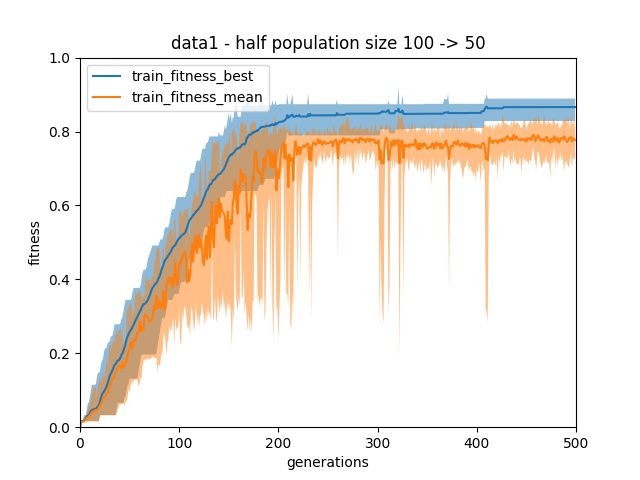
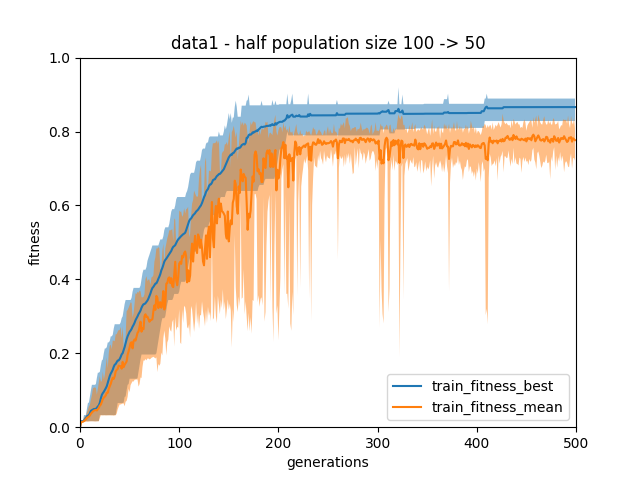
Shift graph legend to lower right

Changed region(s): [[0.125, 0.125, 0.4375, 0.25], [0.5938, 0.7812, 0.875, 0.875]]

diff --git a/biocomp/grapher.py b/biocomp/grapher.py
@@ -100,7 +100,7 @@ def plot_logfile(logs, keys):
         plot_fitness_area(generation_count, logs, key)
     plt.xlabel("generations")
     plt.ylabel("fitness")
-    plt.legend(loc="upper left")
+    plt.legend(loc="lower right")
 
 
 def main():
@@ -127,16 +127,16 @@ def main():
             "c/logs/data1/2019-11-22.05:38:35.log",
             "c/logs/data1/2019-11-22.05:39:12.log",
 
-            "c/logs/data1/2019-11-22.06:49:03.log",
-            "c/logs/data1/2019-11-22.06:49:13.log",
-            "c/logs/data1/2019-11-22.06:49:25.log",
-            "c/logs/data1/2019-11-22.06:49:36.log",
-            "c/logs/data1/2019-11-22.06:49:46.log",
-            "c/logs/data1/2019-11-22.06:50:00.log",
-            "c/logs/data1/2019-11-22.06:50:11.log",
-            "c/logs/data1/2019-11-22.06:50:23.log",
-            "c/logs/data1/2019-11-22.06:50:35.log",
-            "c/logs/data1/2019-11-22.06:50:46.log",
+            # "c/logs/data1/2019-11-22.06:49:03.log",
+            # "c/logs/data1/2019-11-22.06:49:13.log",
+            # "c/logs/data1/2019-11-22.06:49:25.log",
+            # "c/logs/data1/2019-11-22.06:49:36.log",
+            # "c/logs/data1/2019-11-22.06:49:46.log",
+            # "c/logs/data1/2019-11-22.06:50:00.log",
+            # "c/logs/data1/2019-11-22.06:50:11.log",
+            # "c/logs/data1/2019-11-22.06:50:23.log",
+            # "c/logs/data1/2019-11-22.06:50:35.log",
+            # "c/logs/data1/2019-11-22.06:50:46.log",
         ]),
 
         # rule_count:60
@@ -161,16 +161,16 @@ def main():
             "c/logs/data1/2019-11-22.07:08:42.log",
             "c/logs/data1/2019-11-22.07:08:55.log",
 
-            "c/logs/data1/2019-11-22.07:46:00.log",
-            "c/logs/data1/2019-11-22.07:46:11.log",
-            "c/logs/data1/2019-11-22.07:46:23.log",
-            "c/logs/data1/2019-11-22.07:46:36.log",
-            "c/logs/data1/2019-11-22.07:46:49.log",
-            "c/logs/data1/2019-11-22.07:47:01.log",
-            "c/logs/data1/2019-11-22.07:47:12.log",
-            "c/logs/data1/2019-11-22.07:47:25.log",
-            "c/logs/data1/2019-11-22.07:47:37.log",
-            "c/logs/data1/2019-11-22.07:47:48.log",
+            # "c/logs/data1/2019-11-22.07:46:00.log",
+            # "c/logs/data1/2019-11-22.07:46:11.log",
+            # "c/logs/data1/2019-11-22.07:46:23.log",
+            # "c/logs/data1/2019-11-22.07:46:36.log",
+            # "c/logs/data1/2019-11-22.07:46:49.log",
+            # "c/logs/data1/2019-11-22.07:47:01.log",
+            # "c/logs/data1/2019-11-22.07:47:12.log",
+            # "c/logs/data1/2019-11-22.07:47:25.log",
+            # "c/logs/data1/2019-11-22.07:47:37.log",
+            # "c/logs/data1/2019-11-22.07:47:48.log",
         ]),
 
         # rule_count:5
